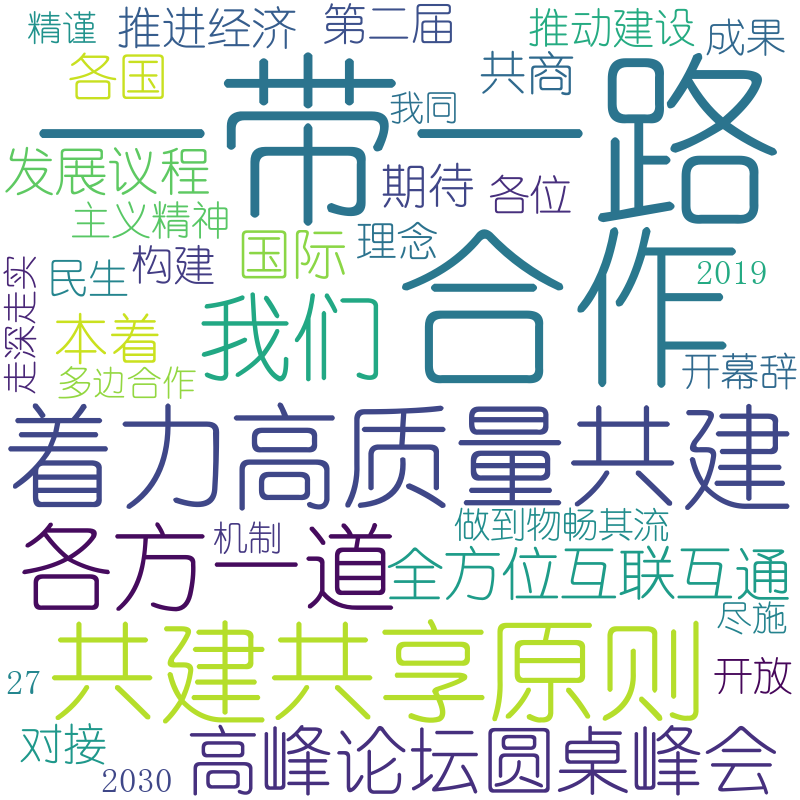
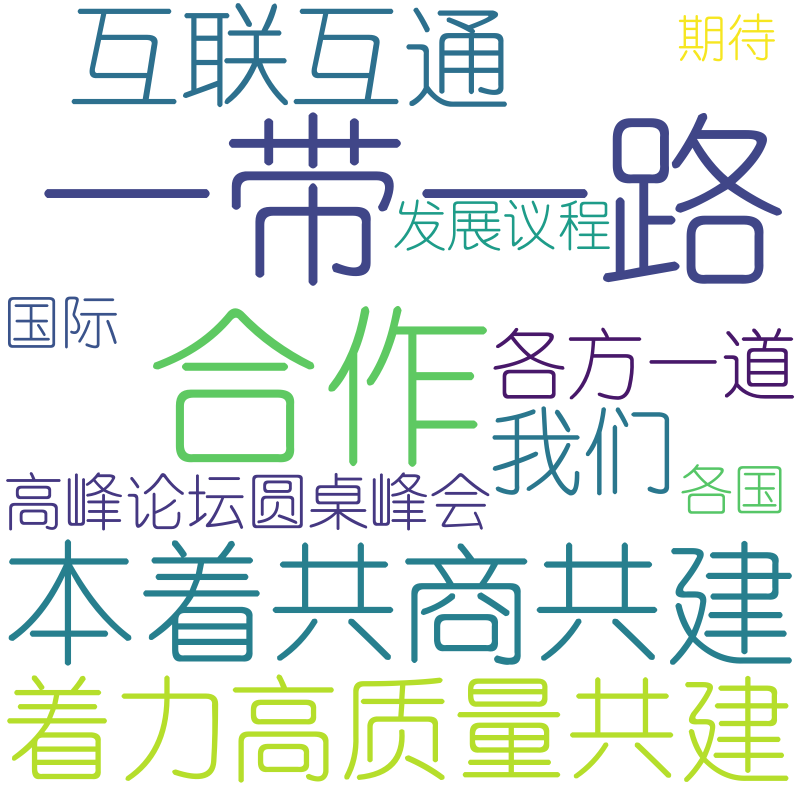
update

diff --git a/KeyPhraseExtraction.py b/KeyPhraseExtraction.py
@@ -111,6 +111,6 @@ class KeyPhraseExtraction():
 if __name__ == '__main__':
     with open('./data/test', encoding='utf-8') as f:
         text = f.read()
-    key_phrase_extractor = KeyPhraseExtraction(topk=50)
+    key_phrase_extractor = KeyPhraseExtraction(topk=20)
     key_phrase = key_phrase_extractor.key_phrase_extraction(text)
     key_phrase_extractor.wordcloud(key_phrase)
